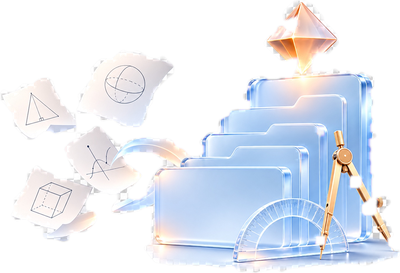
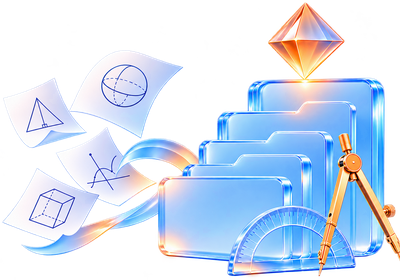
Об авторе: иллюстрация «Инструмент» из исходного PNG с прозрачностью
Прежняя картинка была вырезана из JPEG с впечатанной шахматкой — по
краям листов, циркуля и кристалла оставалась рваная бахрома. Теперь
размеры нарезаны из настоящего PNG с альфа-каналом
(design-reference/public/34022838-….png): поля обрезаны по краю
рисунка, 400 и 800 px WebP и PNG-фолбэк, пропорции 400×280.

Claude-Session: https://claude.ai/code/session_01LvRoNhaZ8sWbJyPUntBUL9

diff --git a/app/src/content/about.ts b/app/src/content/about.ts
@@ -205,7 +205,7 @@ export const about = {
       webp800: assetUrl('/images/ob-avtore/instrument-800.webp'),
       png: assetUrl('/images/ob-avtore/instrument-400.png'),
       width: 400,
-      height: 273,
+      height: 280,
     },
     personal: {
       title: 'Инструмент, которым хотелось бы пользоваться самой',
